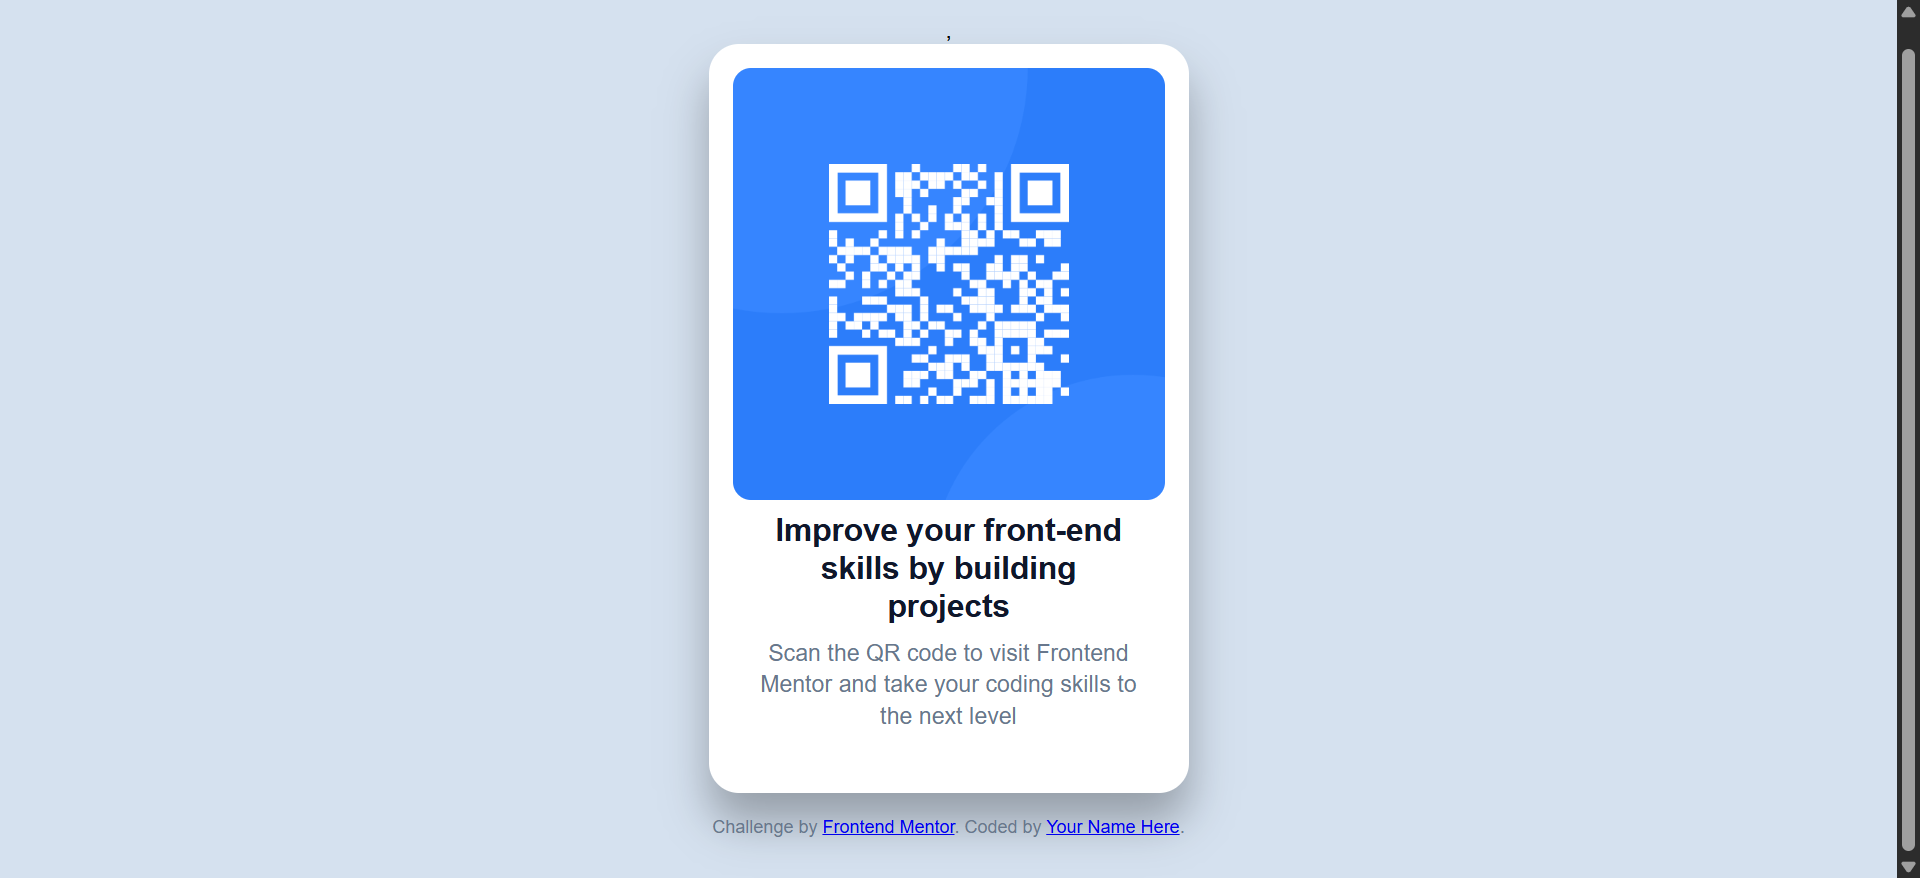
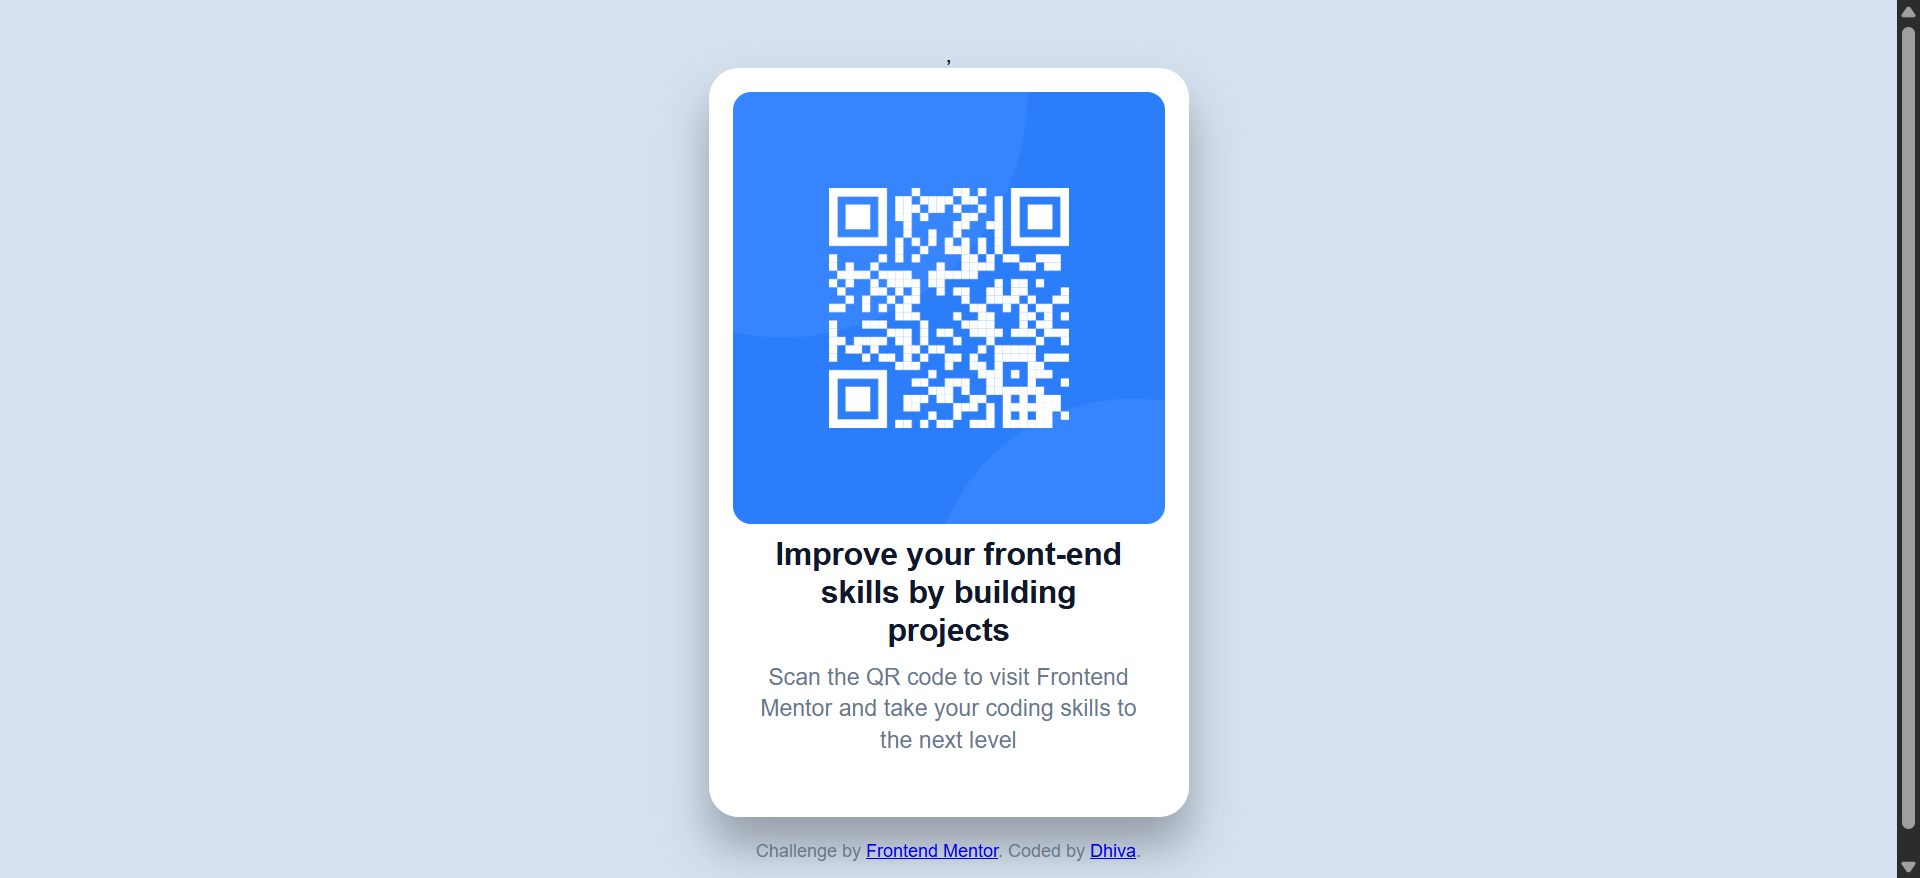
second commit

diff --git a/index.html b/index.html
@@ -20,7 +20,7 @@
   </div>
   <div class="attribution">
     Challenge by <a href="https://www.frontendmentor.io?ref=challenge" target="_blank">Frontend Mentor</a>. 
-    Coded by <a href="#">Your Name Here</a>.
+    Coded by <a href="#">Dhiva</a>.
   </div>
 </body>
 </html>
